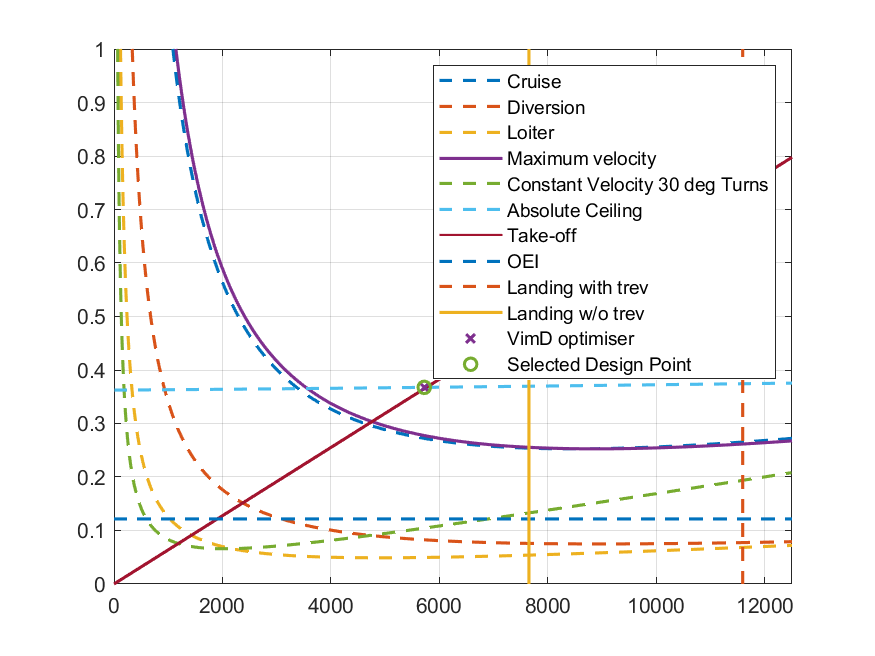
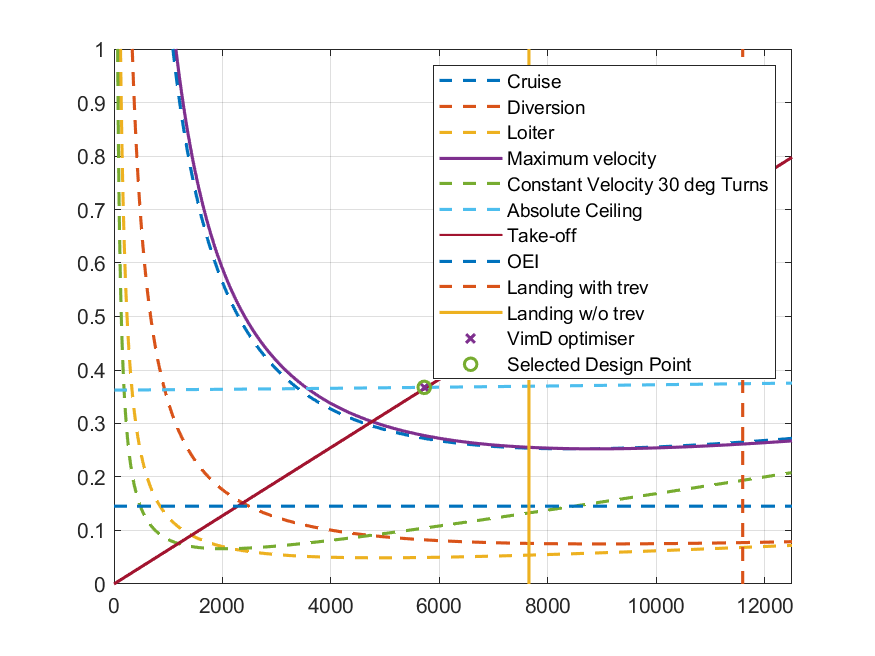
Undercarriage minor changes
Finds best wheel for the job. Need to rearrange data structure to make this more efficient and be able to output wheel without problems. Will come back to this later

Changed region(s): [[0.1234, 0.7622, 0.8949, 0.7927]]

diff --git a/Initial Sizing/Main.m b/Initial Sizing/Main.m
@@ -54,7 +54,7 @@ beta_Loiter = 0.8; e_Loiter = 0.75; C_D0_Loiter = 0.02;             % Loiter
 [~,~,~,rho_ConsVT] = atmosisa(H_Loiter);                            % Constant turns
 alpha_AbsC = WF1*WF2*WF3*WF4; beta_AbsC = 0.14; C_D0_AbsC = 0.02; e_AbsC = 0.85;   % Absolute ceiling   UPDATE!
 TODA = 2200; CL_TakeOff = 1.7;                                      % Takeoff
-NumberOfEngines = 2; ClimbGradient = 0.012;                         % One engine inoperative
+NumberOfEngines = 2; ClimbGradient = 0.024;                         % One engine inoperative
 C_LMaxLanding = 2.2;                                                % Landing
 
 % Functions
